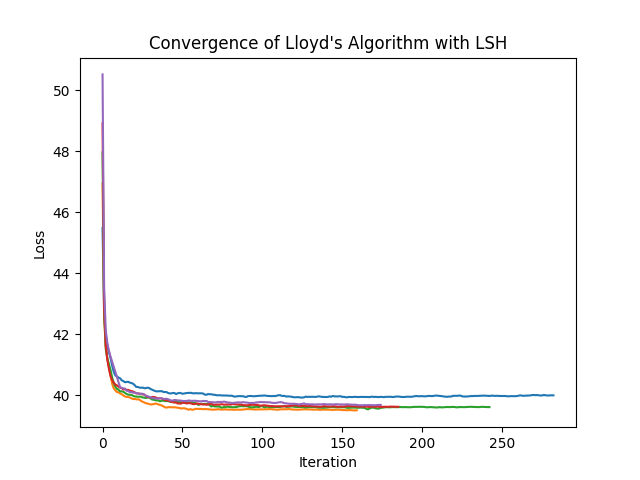
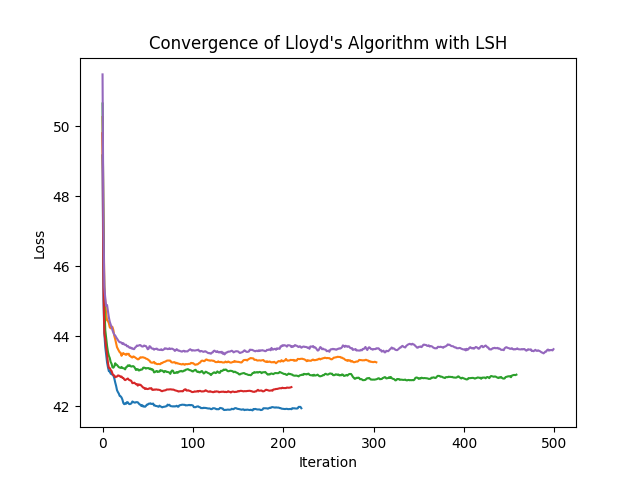
current standing

diff --git a/LSHLloyd.py b/LSHLloyd.py
@@ -9,9 +9,9 @@ from LloydsAlgorithm import LloydsAlgorithm
 
 class LloydsAlgorithmLSH(LloydsAlgorithm):
     def __init__(self, k, data, true_labels, num_hash_tables=2, num_hashes_per_table=3, bucket_size=1.0, max_iter=100,
-                 debug=False, tol=1e-2):
+                 debug=False, tol=2*1e-2):
         super().__init__(k, data, true_labels, max_iter, tol=tol)
-        self.num_assignments = None
+        self.points_assigned_by_distance = None
         self.distances = None
         self.converged = False
         self.time = 0
@@ -73,15 +73,16 @@ class LloydsAlgorithmLSH(LloydsAlgorithm):
         assigned_points = set()
 
         # First assign points from hash buckets
-        for j in range(self.num_hash_tables):
-            for bucket, centroids in self.centroid_hash_buckets[j].items():
-                if bucket in self.hash_buckets[j]:
-                    for idx in self.hash_buckets[j][bucket]:
-                        if idx not in assigned_points:
-                            cluster = centroids[np.random.choice(len(centroids))]
-                            self.labels[idx] = int(cluster)
-                            self.clusters[cluster].append(self.data[idx])
-                            assigned_points.add(idx)
+        for table_index, hash_table in enumerate(self.centroid_hash_buckets):
+            for hash_key, centroid_indices in hash_table.items():
+                data_point_indices = self.hash_buckets[table_index].get(hash_key, [])
+                if len(centroid_indices) > 0:
+                    first_centroid_index = centroid_indices[0]
+                    for data_point_index in data_point_indices:
+                        if data_point_index not in assigned_points:
+                            self.clusters[first_centroid_index].append(data_point_index)
+                            self.labels[data_point_index] = first_centroid_index
+                            assigned_points.add(data_point_index)
         if self.debug:
             print(f"Assigned points from hash buckets: {len(assigned_points)} out of {len(self.data)}")
 
@@ -92,7 +93,7 @@ class LloydsAlgorithmLSH(LloydsAlgorithm):
             for i, idx in enumerate(remaining_points):
                 cluster = np.argmin(self.distances[i])
                 self.labels[idx] = int(cluster)
-                self.clusters[cluster].append(self.data[idx])
+                self.clusters[cluster].append(idx)
                 assigned_points.add(idx)
         if self.debug:
             print(f"Total assigned points after handling remaining buckets: {len(remaining_points)}")
@@ -106,14 +107,11 @@ class LloydsAlgorithmLSH(LloydsAlgorithm):
         start = time.time()
         for _ in tqdm(range(self.max_iter)):
             self._hash_centroids()
-            self.converged, self.num_assignments = self._assign_clusters()
-            relative_change_in_centroids = self._update_centroids()
-            if self.converged or (self.n_iter_ > 10 and relative_change_in_centroids < self.tol):
-                print('Converged after {} iterations'.format(self.n_iter_))
+            self.converged, self.points_assigned_by_distance = self._assign_clusters()
+            conv = self._step()
+            if conv:
                 break
-            self.losses.append(self._compute_loss())
-            self.n_iter_ += 1
-            self.num_distance_calculations += (self.data.shape[0] - self.num_assignments) * self.k
+            self.num_distance_calculations += self.points_assigned_by_distance * self.k
         self.NMI = self._NMI()
         self.time = time.time() - start
 

diff --git a/LloydsAlgorithm.py b/LloydsAlgorithm.py
@@ -5,7 +5,7 @@ from tqdm import tqdm
 
 
 class LloydsAlgorithm:
-    def __init__(self, k, data, true_labels, max_iter, random_init=False, tol=1e-2):
+    def __init__(self, k, data, true_labels, max_iter, random_init=False, tol=2*1e-2):
         self.tol = tol
         self.random_init = random_init
         self.k = k
@@ -40,11 +40,11 @@ class LloydsAlgorithm:
         change_in_centroids = 0
         for i in range(self.k):
             if len(self.clusters[i]) == 0:
-                change_in_centroids += 1e4
+                change_in_centroids += 1
                 self.centroids[i] = self.data[np.random.choice(self.data.shape[0])]
             else:
                 temp_centroid = self.centroids[i].copy()
-                self.centroids[i] = np.mean(self.clusters[i], axis=0)
+                self.centroids[i] = np.mean(self.data[self.clusters[i]], axis=0)
                 change_in_centroids += np.linalg.norm(temp_centroid - self.centroids[i])
         return change_in_centroids/len(self.centroids)
 
@@ -60,14 +60,14 @@ class LloydsAlgorithm:
         for i in range(self.data.shape[0]):
             cluster = np.argmin(self.distances[i])
             self.labels[i] = int(cluster)
-            self.clusters[cluster].append(self.data[i])
+            self.clusters[cluster].append(i)
 
         if self.n_iter_ > 1:
             return self._convergence_check(temp_clusters)
         else:
             return False
 
-    def _calculate_distance(self):
+    def _calculate_distance(self, *args, **kwargs):
         """
         Calculate the n by k distance matrix between the data points and the centroids
         :return: distance matrix
@@ -82,17 +82,22 @@ class LloydsAlgorithm:
         start = time.time()
         for _ in tqdm(range(self.max_iter)):
             self.converged = self._assign_clusters()
-            relative_change_in_centroids = self._update_centroids()
-
-            if self.converged or (self.n_iter_ > 10 and relative_change_in_centroids < self.tol):
-                print('Converged after {} iterations'.format(self.n_iter_))
+            conv = self._step()
+            if conv:
                 break
-            self.losses.append(self._compute_loss())
-            self.n_iter_ += 1
             self.num_distance_calculations += self.data.shape[0] * self.k
         # self.convergence_plot()
         self.NMI = self._NMI()
         self.time = time.time() - start
+
+    def _step(self):
+        relative_change_in_centroids = self._update_centroids()
+        if self.converged or (self.n_iter_ > 10 and relative_change_in_centroids < self.tol):
+            print('Converged after {} iterations'.format(self.n_iter_))
+            return True
+        self.losses.append(self._compute_loss())
+        self.n_iter_ += 1
+        return False
 
     def _convergence_check(self, temp_clusters):
         """
@@ -123,7 +128,7 @@ class LloydsAlgorithm:
         loss = 0
         for i in range(self.k):
             if len(self.clusters[i]) > 0 and len(self.centroids[i]) > 0:
-                loss += np.sum([np.linalg.norm(self.clusters[i] - self.centroids[i]) ** 2])
+                loss += np.sum([np.linalg.norm(self.data[self.clusters[i]] - self.centroids[i]) ** 2])
         return loss / self.data.shape[0]
 
     def _NMI(self):

diff --git a/main.py b/main.py
@@ -97,7 +97,7 @@ if __name__ == '__main__':
     plt.close()
 
     # Lloyds Algorithm with LSH
-    print("\n---------------LLOYD ALGORITHM WITH LSH---------------")
+    print("\n---------------LLOYD'S ALGORITHM WITH LSH---------------")
     # Container to store results
     NMI_lsh = []
     losses_lsh = []
@@ -106,8 +106,8 @@ if __name__ == '__main__':
     num_iterations_lsh = []
 
     for _ in range(5):
-        lloyds_lsh = LloydsAlgorithmLSH(num_clusters, data, true_labels, num_hash_tables=2,
-                                        num_hashes_per_table=3, bucket_size=1.0, max_iter=n_iter,
+        lloyds_lsh = LloydsAlgorithmLSH(num_clusters, data, true_labels, num_hash_tables=5,
+                                        num_hashes_per_table=5, bucket_size=4.0, max_iter=n_iter,
                                         debug=False)
         lloyds_lsh.fit()
         NMI_lsh.append(lloyds_lsh.NMI)
